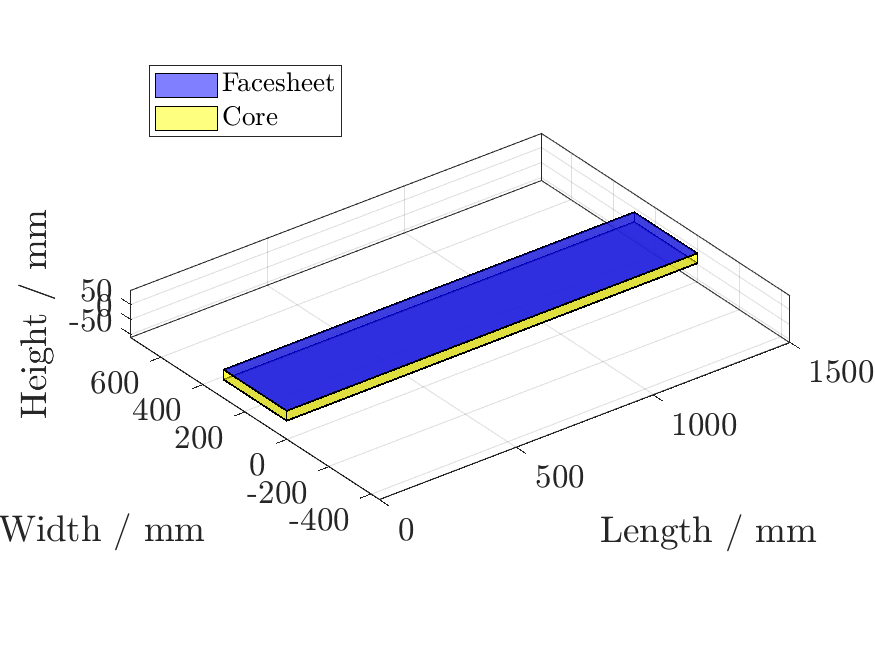
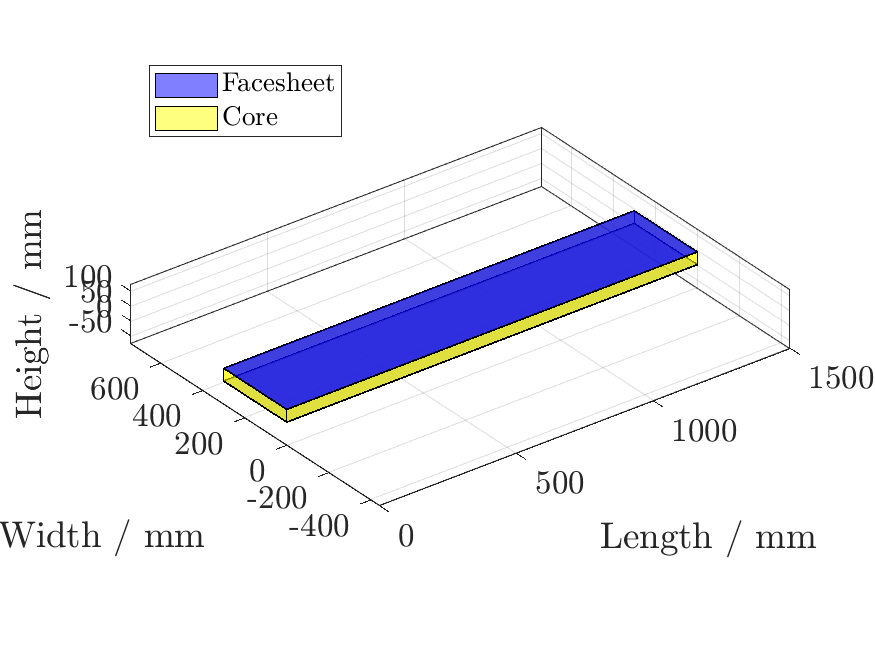
Costing added

diff --git a/Monocoque/Side_Impact_Structure/generateSymmetricLayupLatex.m b/Monocoque/Side_Impact_Structure/generateSymmetricLayupLatex.m
@@ -1,0 +1,36 @@
+function latexCode = generateSymmetricLayupLatex(layup)
+    % Function to generate LaTeX code for a symmetric layup
+    % Input: layup - string in the format '[0 0 90 0 0 -45 45 0 0 -45 45 90]_S'
+    
+    % Remove the brackets and '_S' from the input string
+    layup = strrep(layup, '[', '');
+    layup = strrep(layup, ']', '');
+    layup = strrep(layup, '_S', '');
+    
+    % Split the layup string into individual layer orientations
+    layers = strsplit(layup);
+    
+    % Find the midpoint index for symmetric layup
+    midIndex = length(layers) / 2;
+    
+    % Generate the LaTeX code for the symmetric layup
+    latexCode = '\\begin{array}{c}\n';
+    
+    % Add the top layers
+    for i = 1:midIndex
+        latexCode = [latexCode, layers{i}, ' \\\\ '];
+    end
+    
+    % Add the symmetry line
+    latexCode = [latexCode, '\\hline\n'];
+    
+    % Add the bottom layers
+    for i = midIndex:-1:1
+        latexCode = [latexCode, layers{i}, ' \\\\ '];
+    end
+    
+    latexCode = [latexCode, '\\end{array}'];
+    
+    % Display the generated LaTeX code
+    disp(latexCode);
+end

diff --git a/Monocoque/Side_Impact_Structure/TestStudy_SandwichStructure.m b/Monocoque/Side_Impact_Structure/TestStudy_SandwichStructure.m
@@ -17,12 +17,12 @@ close all
 % through the other facesheet
 
 %% Facesheet layup
-layup_iteration_0_s = [0 0 90 0 0 -45 45 0 0 -45 45 90];
+layup_iteration_0_s = [0 0 90 0 -45 45 0 -45 45 0];
 [A_0, B_0, D_0, ABD_0, Q_0, thickness_0] = ABD(layup_iteration_0_s);
 
 L = 1500e-3;% Length of the structure in m
 b = 300e-3;% Depth of the beam, i.e. about the axis of bending in m
-c = 30e-3;% Thickness of the foam core
+c = 40e-3;% Thickness of the foam core
 %% Orthoropic approximation
 F = 7500;% Force in N
 
@@ -191,6 +191,6 @@ close all
 cost_per_m2_8552 = 35;% £
 L_test = 600e-3;
 b_test = 275e-3;
-[cost_test,area_test] = composite_cost(layup_iteration_0_s,cost_per_m2_8552,L_test,b_test);% Minus honeycomb and adhesives
+[cost_test,area_test] = composite_cost(layup_iteration_0_s,cost_per_m2_8552,L_test,b_test);% Minus honeycomb and adhesives, 2 halves
 cost_test = cost_test * 2
 area_test = area_test * 2

diff --git a/Monocoque/Side_Impact_Structure/Hexoplotter.m b/Monocoque/Side_Impact_Structure/Hexoplotter.m
@@ -5,8 +5,8 @@ close all
 % Define parameters
 L = 1.5; % Length in meters
 W = 300; % Width in mm
-t = 0.003144; % Thickness of facesheet in meters
-c = 50;  % Thickness of core in mm
+t = 0.00262; % Thickness of facesheet in meters
+c = 40;  % Thickness of core in mm
 cell_size = 6.4; % Size of hexagonal cell in mm
 wall_thickness = 0.07; % Wall thickness of hexagonal cell in mm
 
